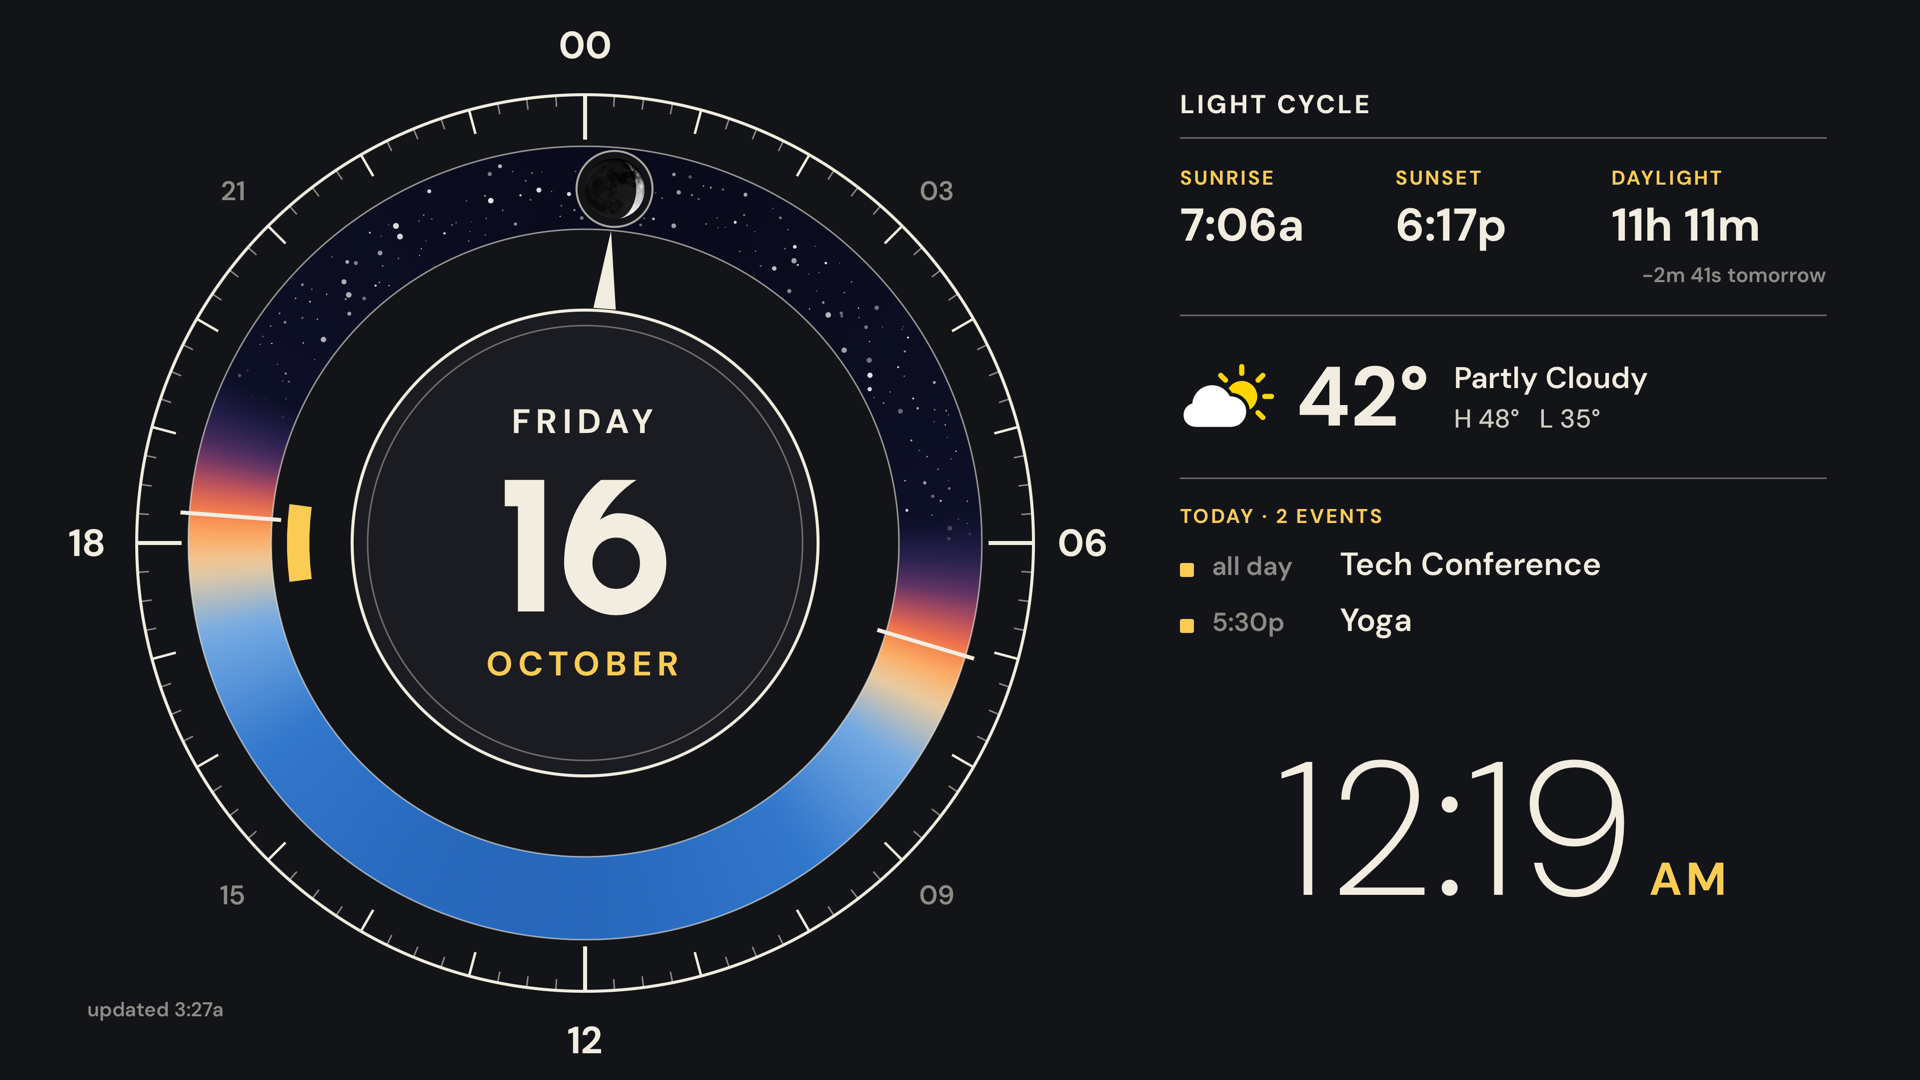
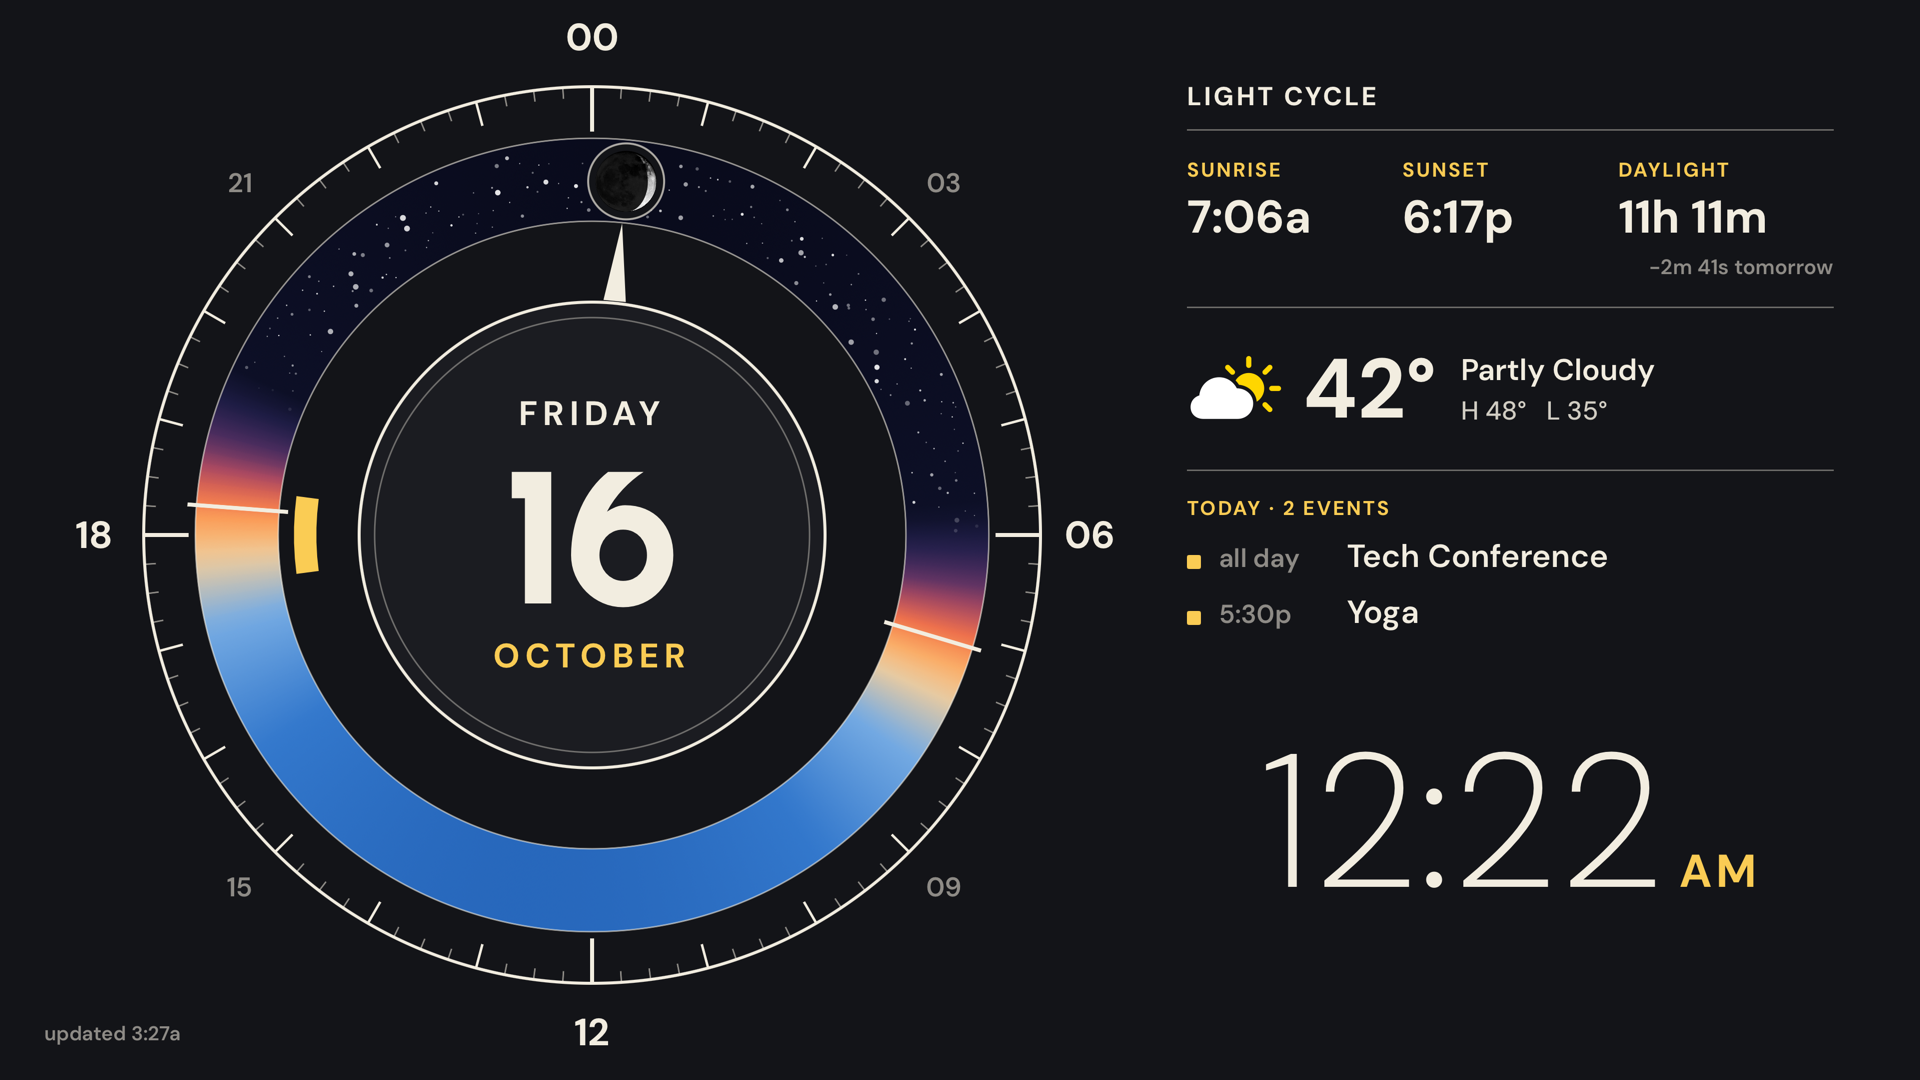
Tuck the Light Cycle update stamp further into its corner

diff --git a/HomeDashboardTV/UI/LightCycleView.swift b/HomeDashboardTV/UI/LightCycleView.swift
@@ -49,8 +49,8 @@ struct LightCycleView: Theme {
         .overlay(alignment: .bottomLeading) {
             // The update stamp in the corner the round dial leaves empty.
             UpdateStamp(snapshot: snapshot)
-                .padding(.leading, Margin.columnH)
-                .padding(.bottom, Margin.columnV)
+                .padding(.leading, Margin.stampH)
+                .padding(.bottom, Margin.stampV)
                 .opacity(build.column)
         }
         .onAppear {
@@ -99,6 +99,10 @@ private enum Margin {
     /// tvOS's overscan-safe insets, kept by the column.
     static let columnV: CGFloat = 60
     static let columnH: CGFloat = 90
+    /// The update stamp, tucked further into its corner than the overscan inset: still clear
+    /// of the 10 pt burn-in drift, and of a set that crops a little.
+    static let stampH: CGFloat = 40
+    static let stampV: CGFloat = 28
 }
 
 /// How far the build-in has got, each part 0 to 1; `settled` is the dial at rest.
